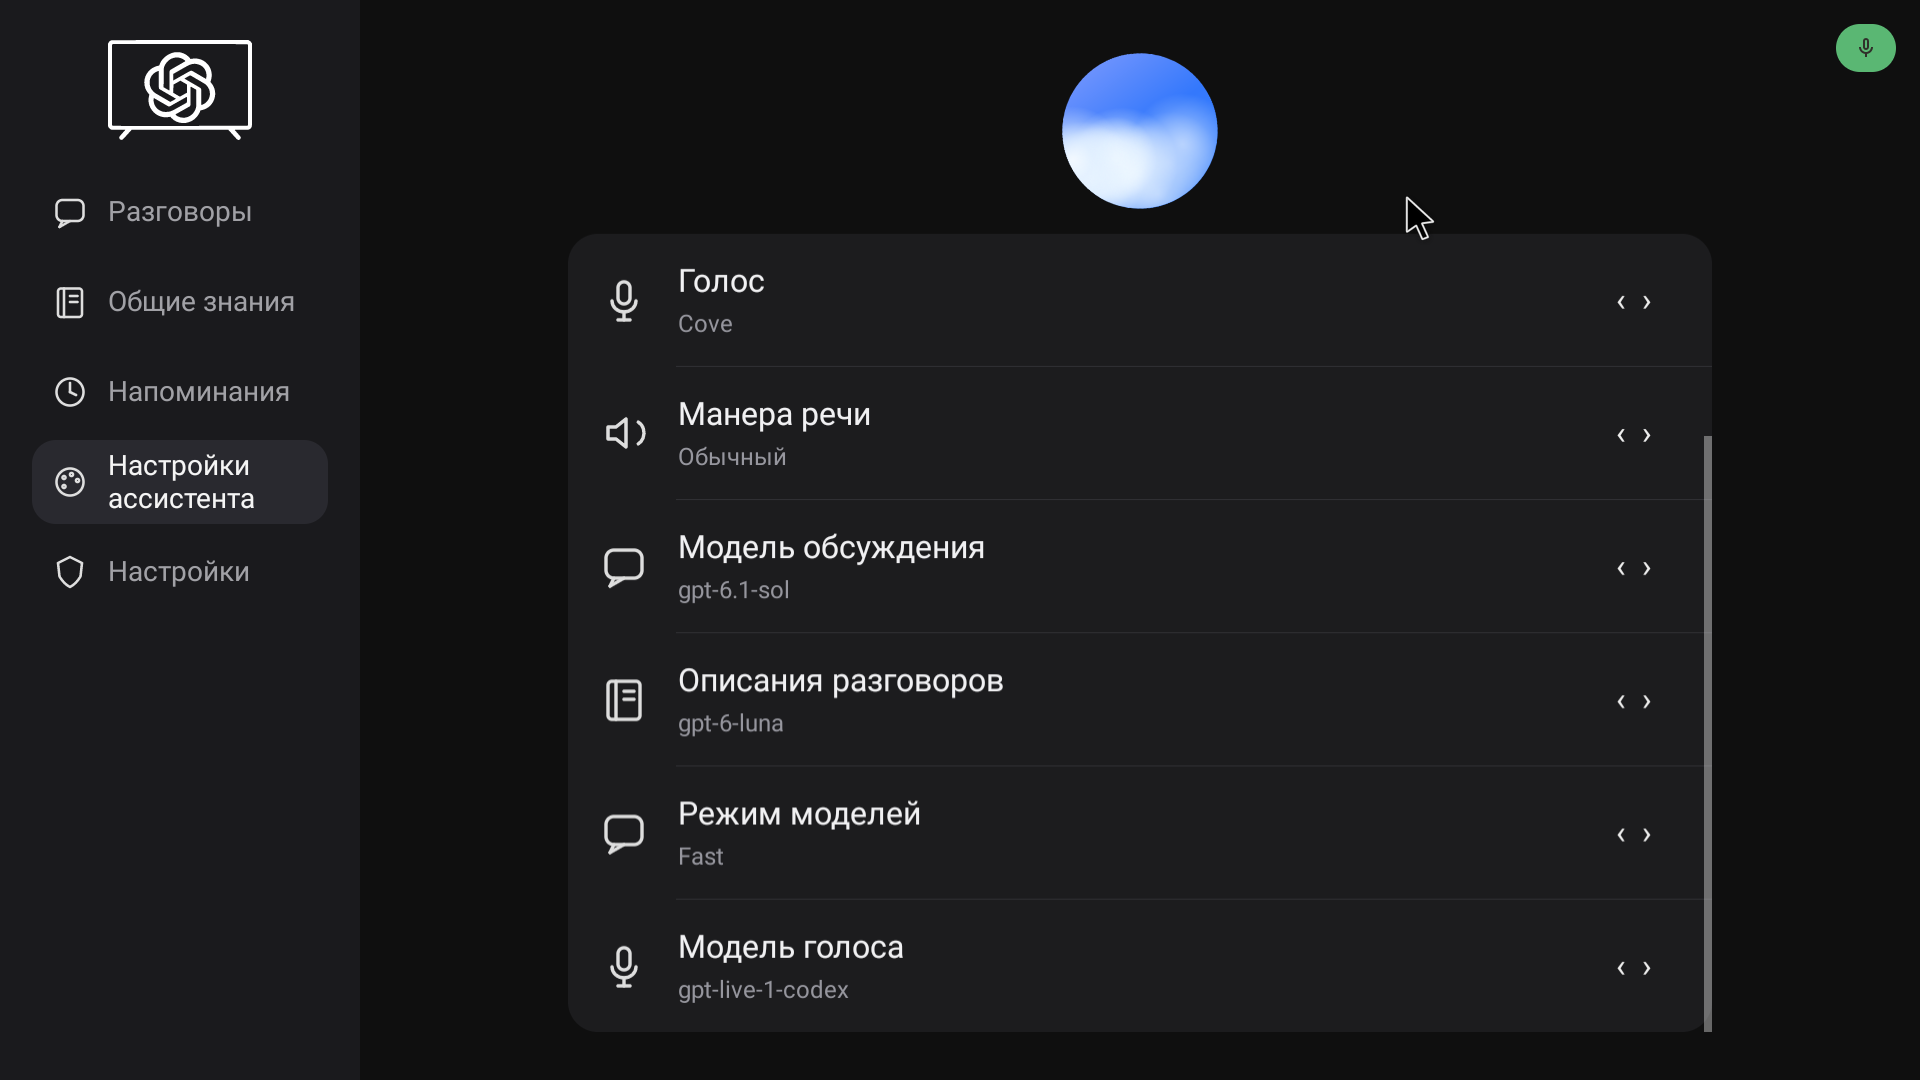
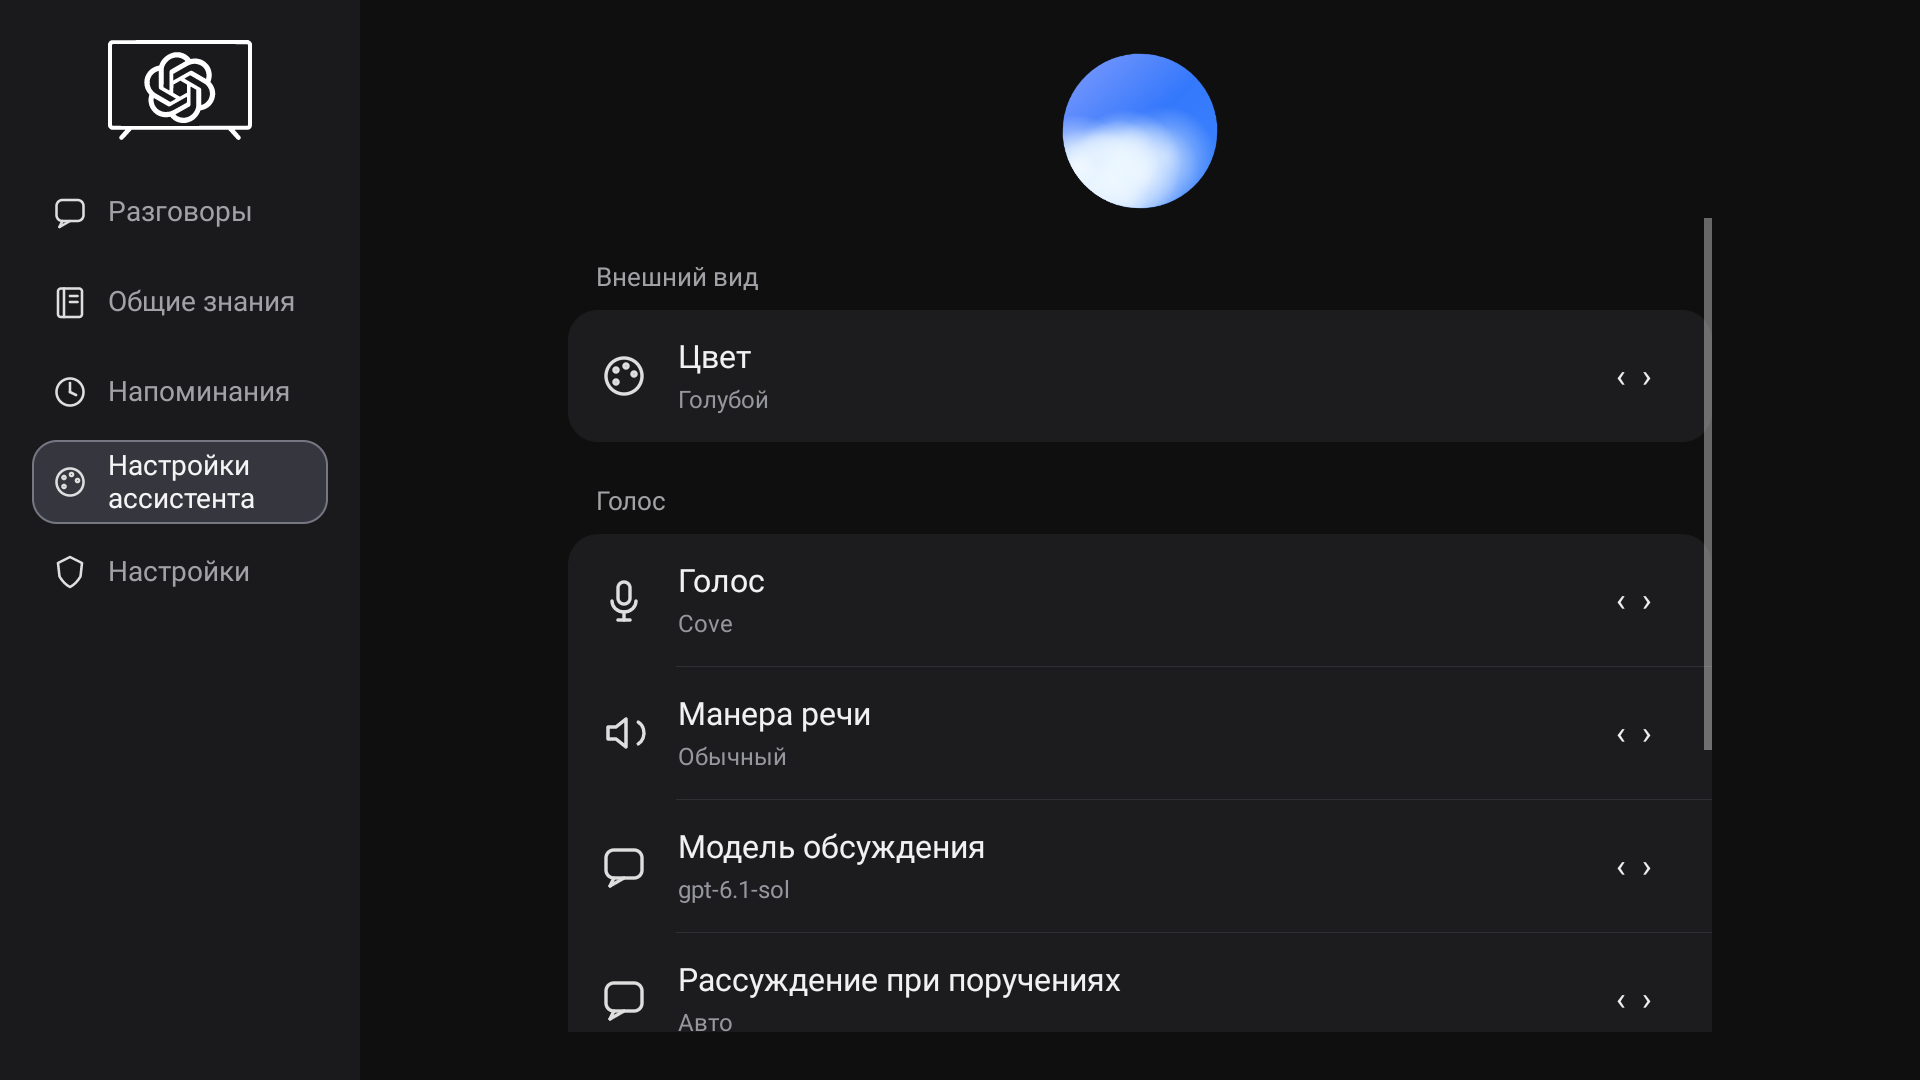
Show TV interface and live assistant over YouTube in screenshot gallery

diff --git a/docs/screenshots/README.md b/docs/screenshots/README.md
@@ -1,0 +1,39 @@
+# Галерея TV GPT
+
+Восемь реальных снимков с TCL Android TV, сделанных 18 октября 2026 года. Все кадры — исходные PNG 1920 × 1080 без ретуши и изменения интерфейса. Нажмите на изображение для просмотра в полном размере.
+
+Голосовой разговор был открыт на телевизоре, после чего выполнен переход в YouTube. На кадре виден шарик помощника поверх воспроизводящегося видео. Сам снимок подтверждает отображение интерфейса; он не является записью звука. Видеокадр: «Boeing 757 и 767 | Близнецы, которых нечем заменить», канал airboy123.
+
+При съёмке редакторы открывались без сохранения заметок, таймеров и напоминаний. После съёмки тестовый разговор закрыт, видео поставлено на паузу. Коды входа, адреса аккаунта, аватар и личная переписка в выбранные кадры не попали. В истории виден только арифметический вопрос.
+
+## Голосовой разговор поверх YouTube
+
+[![Голосовой разговор поверх YouTube](youtube-live.png)](youtube-live.png)
+
+## Настройки ассистента
+
+[![Настройки ассистента](assistant-settings.png)](assistant-settings.png)
+
+## Общие настройки и подключение
+
+[![Общие настройки и подключение](settings.png)](settings.png)
+
+## Разговоры
+
+[![Разговоры](conversations.png)](conversations.png)
+
+## Общие знания
+
+[![Общие знания](knowledge.png)](knowledge.png)
+
+## Напоминания
+
+[![Напоминания](reminders.png)](reminders.png)
+
+## Календарь и редактор напоминания
+
+[![Календарь и редактор напоминания](reminder-editor.png)](reminder-editor.png)
+
+## Редактор таймера
+
+[![Редактор таймера](timer.png)](timer.png)

diff --git a/README.md b/README.md
@@ -8,9 +8,15 @@
 
 ## Интерфейс
 
-![Настройки ассистента TV GPT: голос, модели и режим обработки](docs/screenshots/assistant-settings.png)
+Голосовой разговор продолжается поверх других приложений — здесь помощник открыт во время просмотра YouTube:
 
-Реальный снимок тестовой версии на TCL. Интерфейс продолжает меняться; снимок показывает проверенную ранее ревизию, а не гарантирует точное соответствие текущему коду.
+[![TV GPT: голосовой шарик поверх видео в YouTube](docs/screenshots/youtube-live.png)](docs/screenshots/youtube-live.png)
+
+| Настройки ассистента | Напоминания с пульта |
+| --- | --- |
+| [![Цвет, голос и модели ассистента](docs/screenshots/assistant-settings.png)](docs/screenshots/assistant-settings.png) | [![Редактор напоминания с календарём](docs/screenshots/reminder-editor.png)](docs/screenshots/reminder-editor.png) |
+
+[Все 8 снимков: разговоры, общие знания, напоминания, настройки и таймер](docs/screenshots/README.md). Это реальные кадры с TCL Android TV в исходном разрешении 1920 × 1080. Нажмите на снимок, чтобы открыть его в полном размере.
 
 ## Возможности
 
